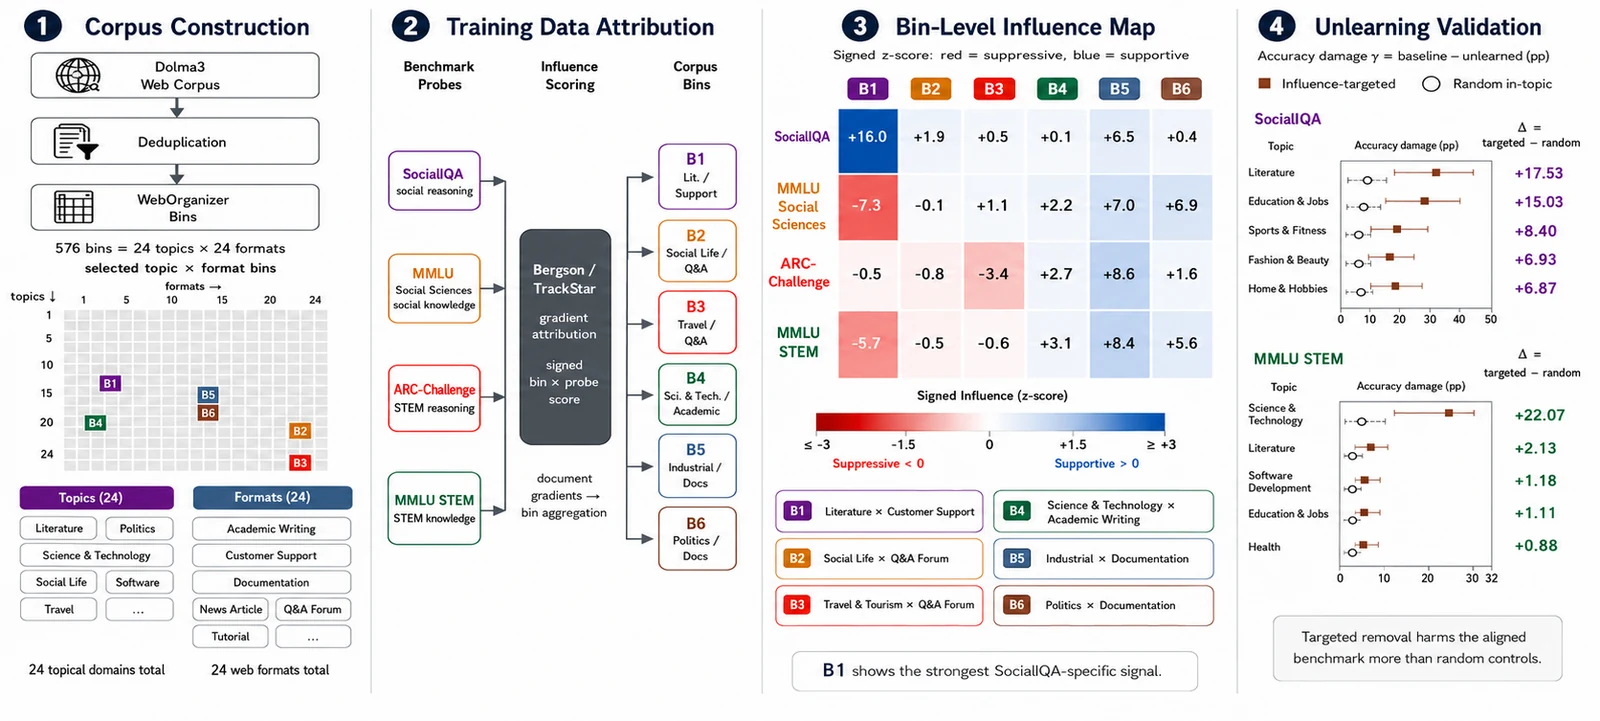
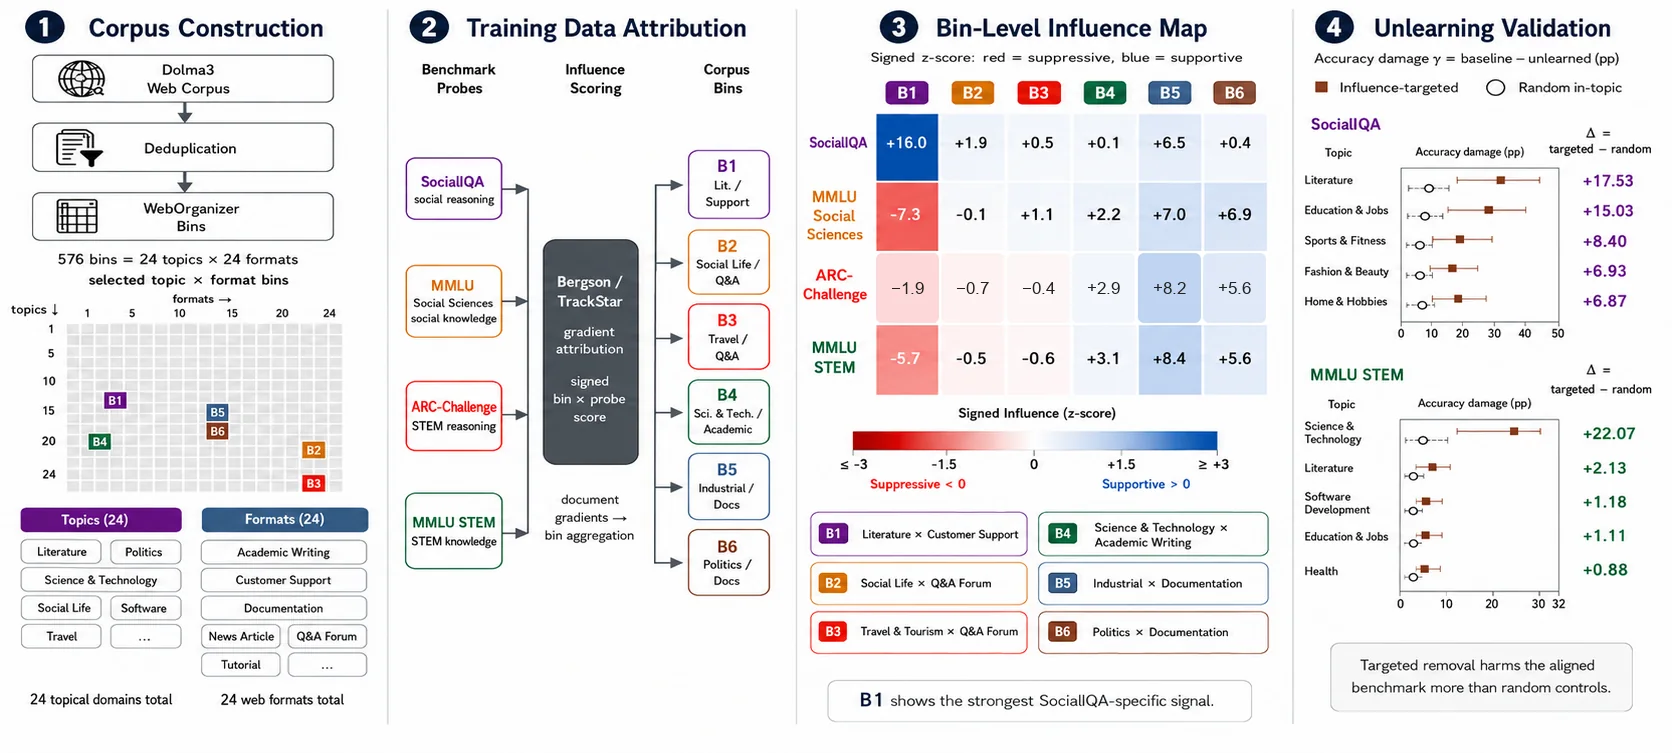
fix(site): hero ARC row to canonical values; 5-shot benchmark copy
Hero figure (fig-overview-revised.png) panel 3 ARC-Challenge row now shows
the canonical post-2026-06-08 aggregation: -1.9, -0.7, -0.4, +2.9, +8.2,
+5.6 (was -0.5, -0.8, -3.4, +2.7, +8.6, +1.6). No generator source exists
in either repo, so the row was patched surgically: cell fills re-colored
with a value->RGB scale interpolated from the figure's own 24 cells, text
re-rendered after font matching (Arial 17), edges redrawn supersampled.
Patch script kept in design-review/figure-src/hero/ for future updates.

Data section: benchmarks were 3/4-shot -> evaluated 5-shot (OLMES task
configs, all four probes); query gradients are computed on the bare
(0-shot) questions, now stated explicitly.

GPU-hours claim stays at ~37K H200-equivalent: that is the paper's own
number (arXiv v1 Appendix L.4). The ledger's 43.6K is raw, mixed-tier,
account-wide sacct and folds in non-paper work (32B index, Comma, DCLM).

diff --git a/public/index.html b/public/index.html
@@ -318,11 +318,11 @@
       </div>
       <div class="paper-copy" data-aos="fade-up" data-aos-delay="100">
         <p>
-          All four probes are OLMES-standard multiple-choice benchmarks: SocialIQA (10,000 queries,
-          3-shot), MMLU Social Sciences (3,077 queries, 4-shot), ARC-Challenge (1,172 queries,
-          4-shot), and MMLU STEM (3,018 queries, 4-shot). Benchmark query gradients come from
-          OLMo3-7B Instruct; document gradients and corpus-side curvature are computed on OLMo3-7B
-          Base, keeping the analysis tied to pretraining data.
+          All four probes are OLMES-standard multiple-choice benchmarks, evaluated 5-shot:
+          SocialIQA (10,000 queries), MMLU Social Sciences (3,077 queries), ARC-Challenge
+          (1,172 queries), and MMLU STEM (3,018 queries). Benchmark query gradients come from
+          OLMo3-7B Instruct on the bare questions; document gradients and corpus-side curvature
+          are computed on OLMo3-7B Base, keeping the analysis tied to pretraining data.
         </p>
         <dl class="inline-facts">
           <div><dt>Unique documents</dt><dd>1.26B after de-duplication</dd></div>